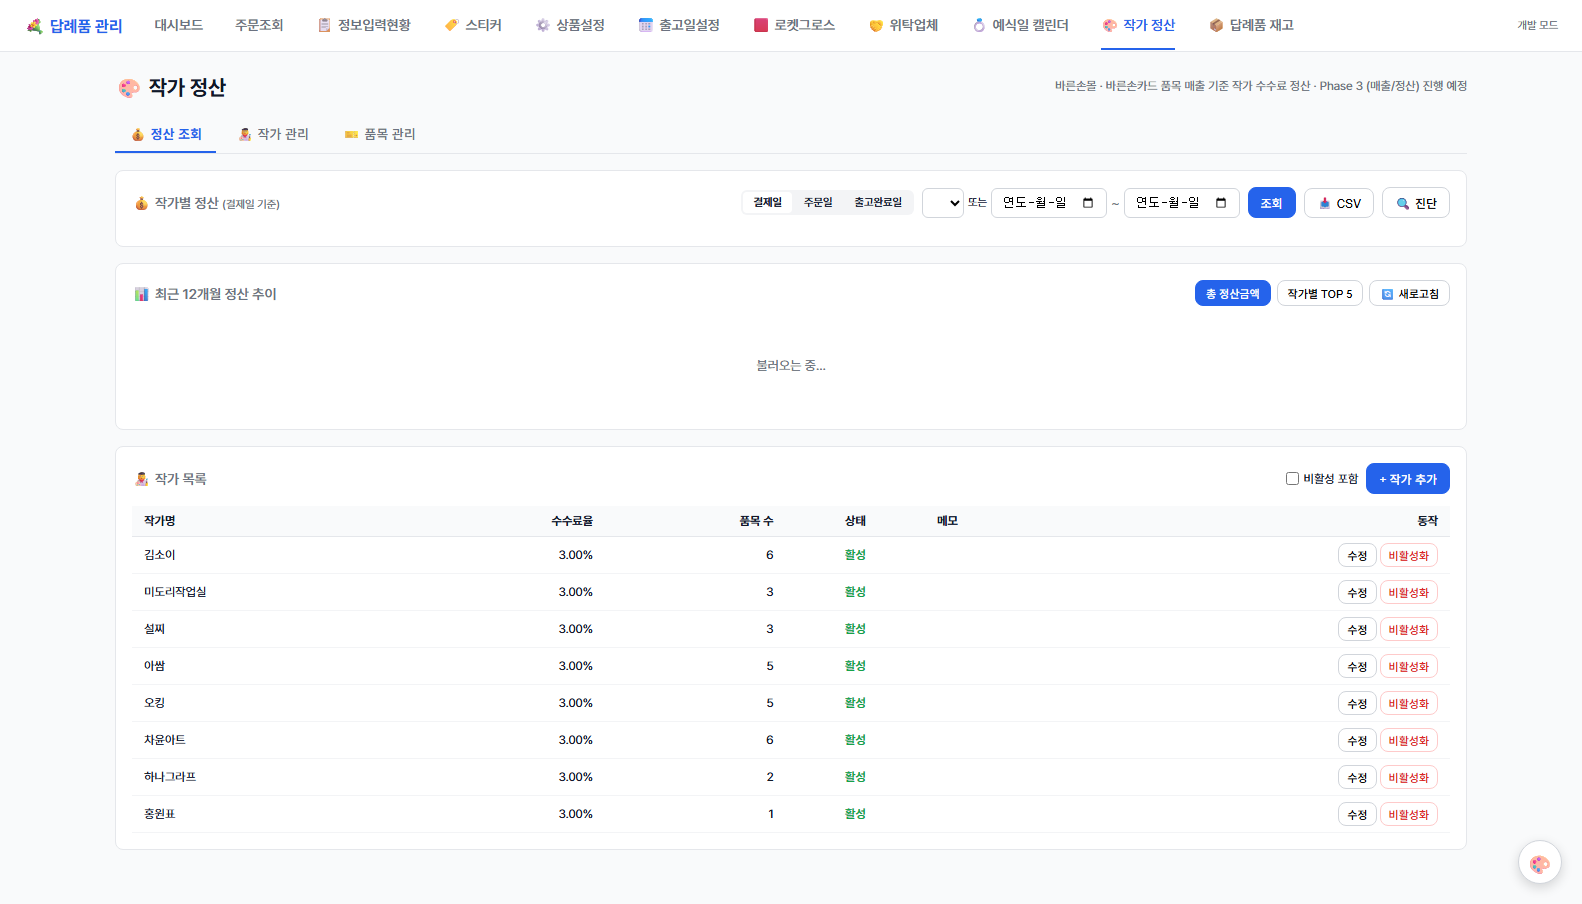
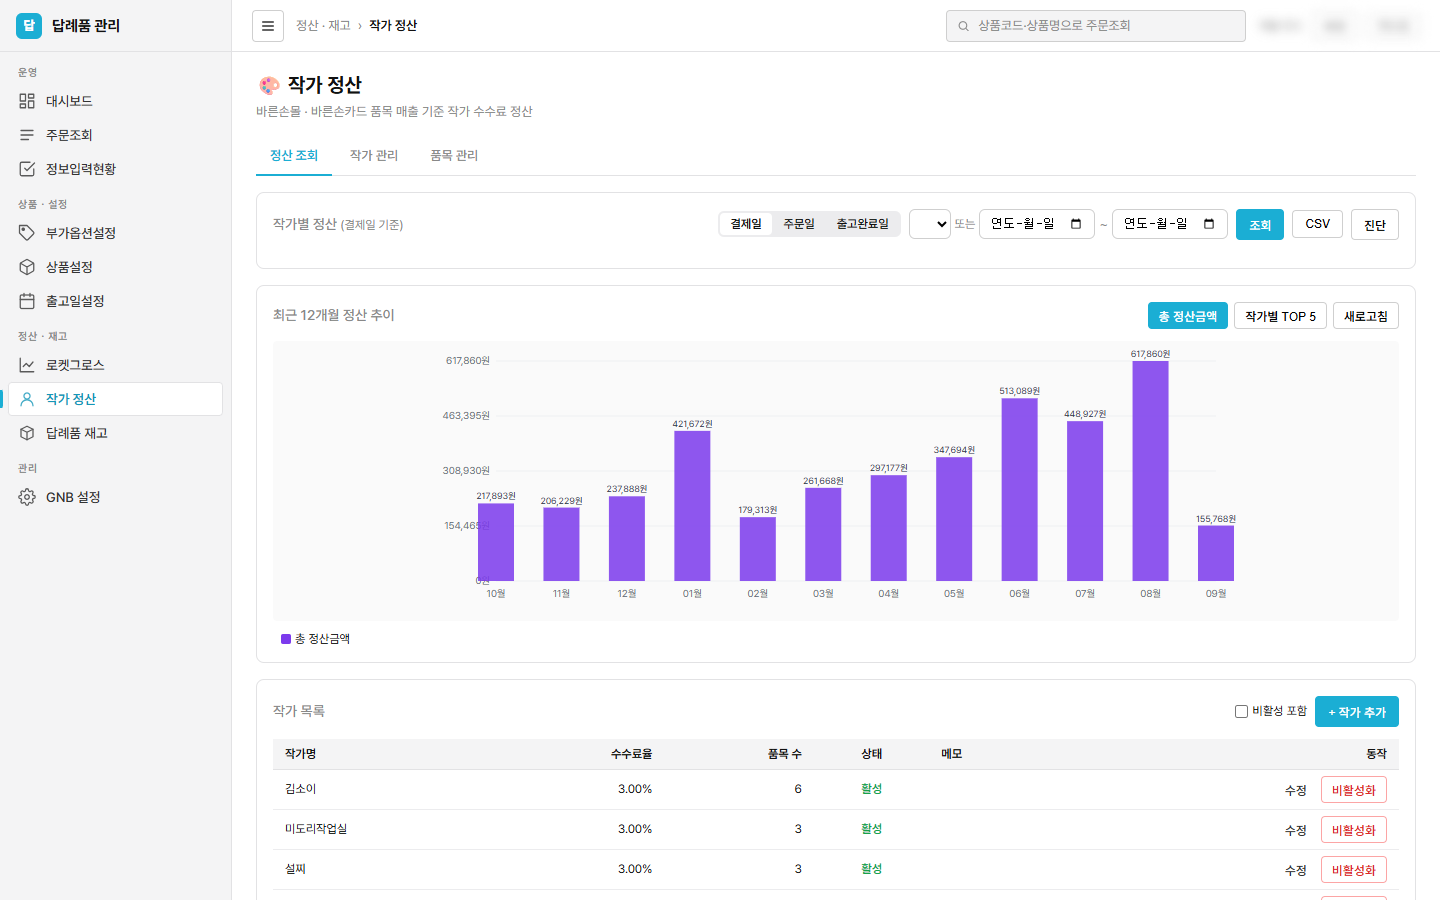
docs(매뉴얼): 사이드바 레이아웃 기준으로 스크린샷 29장 재촬영 + 화면 구성 안내·버튼 명칭 갱신
레이아웃 셸(PR #52)·몰 톤(PR #50/#51) 뒤로 매뉴얼 캡쳐가 전부 옛 상단 GNB 화면이었다.
로컬 서버 + puppeteer(1440×900, 쓰기 요청 차단, 개인정보 블러: 이름·연락처·주소·이메일 열 + 본문 전화/주소 패턴)로
34장 중 29장을 다시 찍었다. 미니카드 사은품 행 수정(PR #55) 이후 화면이라 주문조회·정보입력현황 캡쳐도 정정된 모양이다.

그대로 둔 5장 — 로컬에서 재현이 안 되는 상태라 옛 캡쳐 유지 (레이아웃 셸과 무관한 모달·섹션 크롭):
  dispatch(쿠팡 키 없음) · ga-funnel · price-trend · clickmap(GA 미연동) · uni-collect-check(점검 결과 이상 없음이면 배너 없음)

본문:
- 시스템 개요에 '화면 구성' 항목 추가 — 사이드바 묶음·접기, 상단바(위치·전역 검색·계정), 본문 3단, 버튼 위계
- 버튼 명칭에서 이모지 제거 (엑셀·그룹·출고상태 전송·알림톡 발송·수집누락 점검·설정·미리보기 등 15곳) — 실제 버튼과 일치
- 기준일 2026-09

diff --git a/pricing-prototype/daeryepum/manual.html b/pricing-prototype/daeryepum/manual.html
@@ -86,7 +86,7 @@ code{background:var(--gray-100);padding:2px 6px;border-radius:4px;font-size:12px
 <main>
 
 <h1>📖 답례품 주문관리 시스템 매뉴얼</h1>
-<div class="subtitle">바른손더기프트 답례품 주문 수집·정보입력·인쇄·출고·매출관리 통합 시스템 · CS 부서 및 운영 담당자용 · 2026-07 기준</div>
+<div class="subtitle">바른손더기프트 답례품 주문 수집·정보입력·인쇄·출고·매출관리 통합 시스템 · CS 부서 및 운영 담당자용 · 2026-09 기준 (화면 캡쳐는 2026-09-09 레이아웃)</div>
 
 <h2 id="overview">1. 시스템 개요</h2>
 <p>이 시스템은 <b>모든 판매 채널의 답례품 주문</b>을 한곳에 모아 주문 확인 → 스티커 문구 입력 → 인쇄 → 출고까지 관리하고, 채널 통합 매출을 집계하는 도구입니다.</p>
@@ -94,6 +94,13 @@ code{background:var(--gray-100);padding:2px 6px;border-radius:4px;font-size:12px
 <ul>
   <li>주소: <code>docker-manager.barunsoncard.com/c/barungift/</code></li>
   <li>로그인: 회사 구글 계정 (권한이 없다고 나오면 관리자에게 계정 등록 요청)</li>
+</ul>
+<h4>화면 구성 (2026-09 개편)</h4>
+<ul>
+  <li><b>왼쪽 사이드바</b>: 메뉴가 운영 / 상품·설정 / 정산·재고 / 기록 / 관리 묶음으로 나뉘어 있습니다. 상단바 왼쪽 <b>☰</b> 버튼으로 접으면 아이콘만 남고, 접은 상태는 다음에 들어와도 유지됩니다. 화면 폭이 좁으면(태블릿) 자동으로 접힙니다.</li>
+  <li><b>상단바</b>: 현재 위치(묶음 › 페이지) · <b>전역 검색</b>(상품코드/상품명을 치면 주문조회로 이동해 바로 검색) · 로그인 계정과 [로그아웃] [매뉴얼] 버튼.</li>
+  <li><b>본문</b>: 페이지 제목과 한 줄 설명 아래에 조회줄 → 필터(접힘) → 표 순서로 놓입니다. 표와 카드는 창 폭에 맞춰 전체 폭을 씁니다.</li>
+  <li>버튼 위계: <b>파란 채움</b> = 그 화면의 주 동작(조회·저장) / 흰 테두리 = 보조 동작 / 빨간 테두리 = 삭제·실발송처럼 되돌리기 어려운 동작.</li>
 </ul>
 <h4>지원 판매 채널</h4>
 <table>
@@ -127,7 +134,7 @@ code{background:var(--gray-100);padding:2px 6px;border-radius:4px;font-size:12px
   <li>"제휴사 상세 펼치기"를 누르면 바른손몰 제휴사별 세부 금액이 열립니다.</li>
   <li><b>어제 vs 오늘 · 지난주 동기간(WoW) 비교</b> 카드와 <b>희망출고일별 매출</b>이 아래에 이어집니다.</li>
 </ul>
-<div class="img-wrap"><img src="manual-assets/dashboard-sales-table.png" alt="매출현황 테이블 보기"><div class="img-cap">테이블 보기 — 일자별/주차별 × 사이트 × 상품별 매출. 📥 엑셀 버튼으로 그대로 다운로드</div></div>
+<div class="img-wrap"><img src="manual-assets/dashboard-sales-table.png" alt="매출현황 테이블 보기"><div class="img-cap">테이블 보기 — 일자별/주차별 × 사이트 × 상품별 매출. [엑셀] 버튼으로 그대로 다운로드</div></div>
 <div class="tip">테이블 보기의 <b>상품별 매출</b> 행은 "매출 그룹"(3-4 참고) 설정을 따라 같은 상품이 한 줄로 합산됩니다. 행 앞 체크박스를 선택해 바로 그룹으로 묶을 수도 있습니다.</div>
 
 <h3 id="dash-aux">3-2. 보조지표 1·2</h3>
@@ -147,7 +154,7 @@ code{background:var(--gray-100);padding:2px 6px;border-radius:4px;font-size:12px
 <ul>
   <li><b>🏆 상품 판매 순위</b> — 일/주/월 단위로 이동하며 상품별 판매수량·매출액·비중을 확인합니다. <b>변동</b> 컬럼은 직전 기간 대비 순위 등락(▲/▼/NEW)입니다.</li>
   <li>섹션 구성: <b>🏢 자사</b>(바른손카드+더기프트) / <b>🚀 쿠팡</b> / <b>🟢 네이버</b> / <b>🏬 정수당</b> — 판매가 없는 채널 섹션은 표시되지 않습니다.</li>
-  <li>행 앞 체크박스 → <b>🔗 그룹으로 묶기</b>로 같은 상품(채널별 이름이 다른 경우)을 하나로 합칠 수 있습니다 (3-4 참고).</li>
+  <li>행 앞 체크박스 → <b>그룹으로 묶기</b>로 같은 상품(채널별 이름이 다른 경우)을 하나로 합칠 수 있습니다 (3-4 참고).</li>
 </ul>
 <div class="img-wrap"><img src="manual-assets/dashboard-products-stats.png" alt="상품별 판매 통계"><div class="img-cap">🥃 상품별 판매 통계 — 최대 5개 상품(그룹) 선택 비교, 일별 매출 추이</div></div>
 <ul>
@@ -157,9 +164,9 @@ code{background:var(--gray-100);padding:2px 6px;border-radius:4px;font-size:12px
 
 <h3 id="sales-group">3-4. 매출 그룹 (상품 묶기) — 핵심 기능</h3>
 <p>같은 상품인데 채널마다 <b>이름/코드가 달라 여러 줄로 나뉘는 문제</b>를 해결하는 기능입니다. 예: 자사 "메이플 호두정과", 쿠팡 "정수당 메이플 호두정과 답례품 80g(1박스)+감사 스티커…"</p>
-<div class="step"><b>그룹 만들기</b> — ① 상품 판매 순위 또는 매출 시트에서 묶을 행의 <b>체크박스 선택</b> → ② 상단 <b>🔗 그룹으로 묶기</b> 클릭 → ③ 그룹명 입력(예: "정수당 메이플 호두정과") 후 저장</div>
+<div class="step"><b>그룹 만들기</b> — ① 상품 판매 순위 또는 매출 시트에서 묶을 행의 <b>체크박스 선택</b> → ② 상단 <b>그룹으로 묶기</b> 클릭 → ③ 그룹명 입력(예: "정수당 메이플 호두정과") 후 저장</div>
 <div class="step"><b>기존 그룹에 추가</b> — 모달에서 "기존 그룹에 추가"를 선택해 그룹을 고릅니다</div>
-<div class="step"><b>그룹 관리</b> — <b>⚙ 그룹</b> 버튼 → 이름변경 / 멤버 해제 / 그룹 삭제</div>
+<div class="step"><b>그룹 관리</b> — <b>[그룹]</b> 버튼 → 이름변경 / 멤버 해제 / 그룹 삭제</div>
 <ul>
   <li>그룹명이 매출 시트·상품 순위·상품별 통계에서 <b>대표 이름</b>으로 표시되고 수량/매출이 합산됩니다.</li>
   <li>상품코드/상품명 기준으로 저장되므로 <b>이후 새 매출이 발생해도 그룹이 자동 유지</b>됩니다.</li>
@@ -200,7 +207,7 @@ code{background:var(--gray-100);padding:2px 6px;border-radius:4px;font-size:12px
 <div class="img-wrap"><img src="manual-assets/clickmap.png" alt="상세페이지 클릭맵"><div class="img-cap">모바일 모드 — 모바일 실제 화면 위에 클릭수 배지, 오른쪽에 클릭수·사용자 순위</div></div>
 <p>상세페이지 안에서 <b>고객이 실제로 무엇을 누르는지</b>를 봅니다. 페이지 스냅샷 위에 빨간 배지로 클릭수가 표시됩니다.</p>
 <ul>
-  <li><b>여는 법</b>: 상품별 판매통계 탭 → 🖱 상세페이지 클릭맵 → 상품 페이지 선택 → [클릭맵 보기]. 페이지 목록은 기간 내 조회수 순입니다.</li>
+  <li><b>여는 법</b>: 상품별 판매통계 탭 → 상세페이지 클릭맵 → 상품 페이지 선택 → [클릭맵 보기]. 페이지 목록은 기간 내 조회수 순입니다.</li>
   <li><b>PC / 모바일 전환</b>: 두 화면은 아예 다른 페이지라(버튼 구성도 다름) 따로 봅니다. 전환하면 스냅샷·클릭수가 모두 그 기기 기준으로 바뀝니다. 같은 후기 탭도 PC 366 · 모바일 550처럼 갈립니다.</li>
   <li><b>클릭수와 사용자</b>: 클릭수는 반복 클릭이 포함된 값이고, <b>사용자</b>는 누른 사람 수입니다. "얼마나 많은 사람이 관심을 가졌나"는 사용자로, "얼마나 반복해서 봤나"는 클릭수로 읽으세요.</li>
   <li><b>읽는 법</b>: 옵션 배지(다크초코맛 vs 녹차맛)로 <b>어느 맛에 관심이 몰리는지</b>, 바로주문 vs 장바구니 비율, 구매후기를 얼마나 보는지를 알 수 있습니다.</li>
@@ -254,7 +261,7 @@ code{background:var(--gray-100);padding:2px 6px;border-radius:4px;font-size:12px
 <h3 id="orders-thegift">4-2. 더기프트 CSV 업로드</h3>
 <div class="img-wrap"><img src="manual-assets/orders-thegift.png" alt="더기프트 탭"><div class="img-cap">답례품_더기프트 — CSV 업로드로 주문 일괄 등록, 처리현황 배지</div></div>
 <ul>
-  <li>API 미연동 채널이라 <b>[동기화 · 도구] → 📤 CSV/Excel 업로드</b>로 주문 파일을 올립니다. 같은 주문번호는 덮어쓰기되어 중복되지 않습니다.</li>
+  <li>API 미연동 채널이라 <b>[동기화 · 도구] → CSV/Excel 업로드</b>로 주문 파일을 올립니다. 같은 주문번호는 덮어쓰기되어 중복되지 않습니다.</li>
   <li>CSV의 결제일자(R열)가 매출 기준일, 판매금액(Q열)이 상품별 매출로 들어갑니다.</li>
   <li>추가입력옵션(K열)의 스티커 문구는 정보입력현황 문구 칸으로 자동 매핑됩니다.</li>
   <li>업로드된 주문은 대시보드 매출·상품별 통계·예측 카드 "실제 매출"에 모두 반영됩니다.</li>
@@ -267,10 +274,10 @@ code{background:var(--gray-100);padding:2px 6px;border-radius:4px;font-size:12px
 </ul>
 
 <h3 id="dispatch">4-3. 출고상태 전송 (쿠팡·네이버)</h3>
-<div class="img-wrap"><img src="manual-assets/dispatch.png" alt="출고상태 전송"><div class="img-cap">[동기화 · 도구] → 🚚 출고상태 전송 — 등록한 송장을 채널에 올려 배송중으로 넘깁니다</div></div>
+<div class="img-wrap"><img src="manual-assets/dispatch.png" alt="출고상태 전송"><div class="img-cap">[동기화 · 도구] → 출고상태 전송 — 등록한 송장을 채널에 올려 배송중으로 넘깁니다</div></div>
 <p>정보입력현황에서 <b>출고처리(송장 등록)</b>를 마친 주문을, Wing·스마트스토어에 다시 들어가 손으로 치지 않고 여기서 한 번에 넘깁니다.</p>
 <ul>
-  <li><b>여는 곳</b>: 주문조회 → [동기화 · 도구] → <b>🚚 출고상태 전송</b></li>
+  <li><b>여는 곳</b>: 주문조회 → [동기화 · 도구] → <b>출고상태 전송</b></li>
   <li><b>목록에 뜨는 것</b>: 최근 14일 중 채널에서 아직 발송 전인 주문 (쿠팡 결제완료·상품준비중 / 네이버 결제완료). 로켓그로스는 쿠팡이 출고하므로 대상이 아닙니다.</li>
   <li><b>전송 가능</b>: 우리 시스템에 <b>송장번호와 택배사</b>가 등록된 건만 체크됩니다. <span class="badge b-amber">송장 미등록</span>·<span class="badge b-amber">택배사 코드 없음</span> 건은 체크 자체가 막혀 있습니다 — 먼저 정보입력현황에서 출고처리를 하세요.</li>
   <li><b>전송하면</b>: 채널 주문이 <b>배송중</b>으로 바뀌고 <b>고객에게 발송 알림이 나갑니다</b>. 되돌릴 수 없으므로 보내기 전 확인창에서 건수를 한 번 더 확인합니다.</li>
@@ -385,7 +392,7 @@ code{background:var(--gray-100);padding:2px 6px;border-radius:4px;font-size:12px
 <ul>
   <li><b>구분 필터</b>: 전체 / 기타출고만 / 운영사고만.</li>
   <li><b>검색</b>: 주문번호 · 품목코드 · 사유로 찾습니다.</li>
-  <li><b>📥 엑셀</b>: 물류·재무 전달용. <b>품목 1건당 1행</b>으로 펼쳐 나오므로 그대로 매출 처리에 쓸 수 있습니다.</li>
+  <li><b>[엑셀]</b>: 물류·재무 전달용. <b>품목 1건당 1행</b>으로 펼쳐 나오므로 그대로 매출 처리에 쓸 수 있습니다.</li>
   <li>한 주문에 사고가 여러 번 났으면 여러 건으로 등록됩니다.</li>
 </ul>
 
@@ -400,9 +407,9 @@ code{background:var(--gray-100);padding:2px 6px;border-radius:4px;font-size:12px
 </div>
 
 <h3 id="alimtalk">5-2. 알림톡 발송·발송이력 (미입력 탭)</h3>
-<div class="img-wrap"><img src="manual-assets/uni-alimtalk-btn.png" alt="알림톡 발송과 이력"><div class="img-cap">미입력 탭 — 알림톡 컬럼(최근 발송·횟수)과 [💬 알림톡 발송] 버튼, 우상단 [📋 수집누락 점검]</div></div>
+<div class="img-wrap"><img src="manual-assets/uni-alimtalk-btn.png" alt="알림톡 발송과 이력"><div class="img-cap">미입력 탭 — 알림톡 컬럼(최근 발송·횟수)과 주문을 체크하면 나타나는 [알림톡 발송] 버튼, 조회줄 오른쪽 [수집누락 점검]</div></div>
 <ul>
-  <li>미입력 주문을 체크하면 <b>💬 알림톡 발송</b> 버튼이 나타납니다 — 고객에게 <b>정보입력 안내 알림톡</b>이 나갑니다.</li>
+  <li>미입력 주문을 체크하면 <b>알림톡 발송</b> 버튼이 나타납니다 — 고객에게 <b>정보입력 안내 알림톡</b>이 나갑니다.</li>
   <li>템플릿은 주문 사이트에 따라 자동 선택됩니다: 바른손카드 계열 = <code>BHGIFT_01</code>(발신 1644-0708), 바른손몰 = <code>BMGIFT_01</code>(발신 1644-7413). 수신은 <b>주문자 휴대폰</b>입니다.</li>
   <li><b>알림톡 컬럼</b>: 최근 발송시각(KST)과 성공 횟수 — <span class="badge b-green">✓ 08-28 15:48 · 2회</span> 형태. 이미 발송된 주문이 선택에 섞이면 확인창에 경고가 뜹니다.</li>
   <li>발송 경로(사내 SP → 통합관리자 → PublicApi)는 서버가 자동으로 고릅니다. 이력은 PublicApi 경로 발송만 표시됩니다 (과거 다른 경로 발송분은 바른손 백엔드에만 기록).</li>
@@ -411,7 +418,7 @@ code{background:var(--gray-100);padding:2px 6px;border-radius:4px;font-size:12px
 <h3 id="collect-check">5-3. 수집누락 점검</h3>
 <div class="img-wrap"><img src="manual-assets/uni-collect-check.png" alt="수집누락 점검 배너"><div class="img-cap">점검 결과 — 어느 월 시트에도 없는 주문(누락)과 다른 월 시트에 있는 주문(월 착오)을 구분해 보여줍니다</div></div>
 <ul>
-  <li>조회줄 오른쪽 <b>📋 수집누락 점검</b>을 누르면, <b>수집완료 처리된 주문</b>이 고객 희망출고월의 주문수집 스프레드시트에 실제로 등록됐는지 대조합니다 (최근 30일 이후 희망출고 기준).</li>
+  <li>조회줄 오른쪽 <b>수집누락 점검</b>을 누르면, <b>수집완료 처리된 주문</b>이 고객 희망출고월의 주문수집 스프레드시트에 실제로 등록됐는지 대조합니다 (최근 30일 이후 희망출고 기준).</li>
   <li><span class="badge b-red">어느 월 시트에도 없음</span> = 진짜 누락 — 주문번호를 눌러 복사해 시트에 등록하세요.</li>
   <li><span class="badge b-amber">다른 월 시트에 있음</span> = 월 착오 — 등록은 됐지만 희망출고월과 다른 시트입니다.</li>
   <li>시트 여러 장을 읽는 작업이라 자동 실행되지 않습니다 — 버튼을 누를 때만 새로 대조하고, 이상이 없으면 "이상 없음" 알림만 뜹니다.</li>
@@ -580,13 +587,13 @@ code{background:var(--gray-100);padding:2px 6px;border-radius:4px;font-size:12px
 <ul>
   <li><b>하나씩</b>: 행의 🔔 체크박스를 켜고 끄면 즉시 저장됩니다.</li>
   <li><b>화면 전체</b>: 🔔 헤더의 체크박스 — 지금 화면에 보이는 등록 품목 전체를 한 번에 켜거나 끕니다 (검색·필터로 좁힌 뒤 누르면 그 범위만). 일부만 켜져 있으면 헤더가 <code>−</code> 로 보입니다.</li>
-  <li><b>골라서 일괄</b>: 왼쪽 행 선택 체크박스로 품목을 고르면 위에 액션 바가 뜨고, <b>🔔 알림 켜기 / 🔕 알림 끄기</b> 로 선택한 것만 한 번에 바꿉니다.</li>
+  <li><b>골라서 일괄</b>: 왼쪽 행 선택 체크박스로 품목을 고르면 위에 액션 바가 뜨고, <b>알림 켜기 / 알림 끄기</b> 로 선택한 것만 한 번에 바꿉니다.</li>
 </ul>
 <div class="tip">알림을 꺼도 재고 목록에서 사라지지 않습니다 — 슬랙 데일리 발송 대상에서만 빠집니다. 임계치는 알림 카드의 <b>대상 보기</b> 에서 여러 개를 골라 한 번에 지정합니다.</div>
 
 <h4>슬랙 메시지 구성</h4>
-<div class="img-wrap"><img src="manual-assets/stock-alert-config.png" alt="슬랙 알림 설정"><div class="img-cap">⚙ 설정 — 채널/시각 · 구분별 경고 기준일 · 메시지 구성</div></div>
-<p>알림 카드의 <b>⚙ 설정</b>에서 메시지에 무엇을 담을지 직접 정합니다. 바꾼 뒤 <b>👁 미리보기</b>로 결과를 확인하고, 실제 발송 전까지 슬랙에는 나가지 않습니다.</p>
+<div class="img-wrap"><img src="manual-assets/stock-alert-config.png" alt="슬랙 알림 설정"><div class="img-cap">[설정] — 채널/시각 · 구분별 경고 기준일 · 메시지 구성</div></div>
+<p>알림 카드의 <b>[설정]</b>에서 메시지에 무엇을 담을지 직접 정합니다. 바꾼 뒤 <b>[미리보기]</b>로 결과를 확인하고, 실제 발송 전까지 슬랙에는 나가지 않습니다.</p>
 <ul>
   <li><b>본문(채널 메시지)</b>: 건수 줄 / 🔴 조치 필요 목록 켜기·끄기, 조치 필요를 급한 순 상위 N건만 표시할 수도 있습니다 (나머지는 "…외 N건" 으로 안내). 목록을 꺼도 급한 건수가 있으면 그 사실은 한 줄로 남습니다.</li>
   <li><b>스레드 섹션</b>: 소진/확인 필요/정상 섹션을 켜고 끄고, ▲▼로 순서를 바꿉니다. 구분(원물/부자재)별 묶음도 여기서 끕니다.</li>
